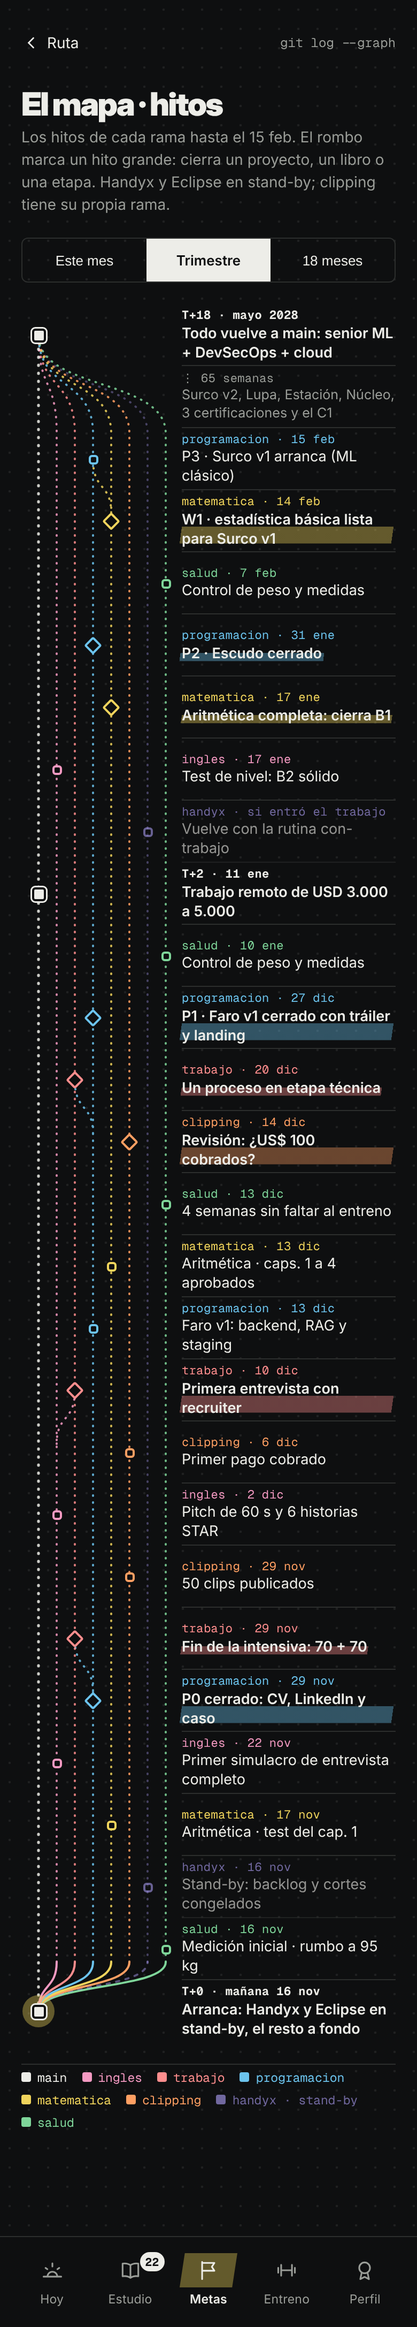
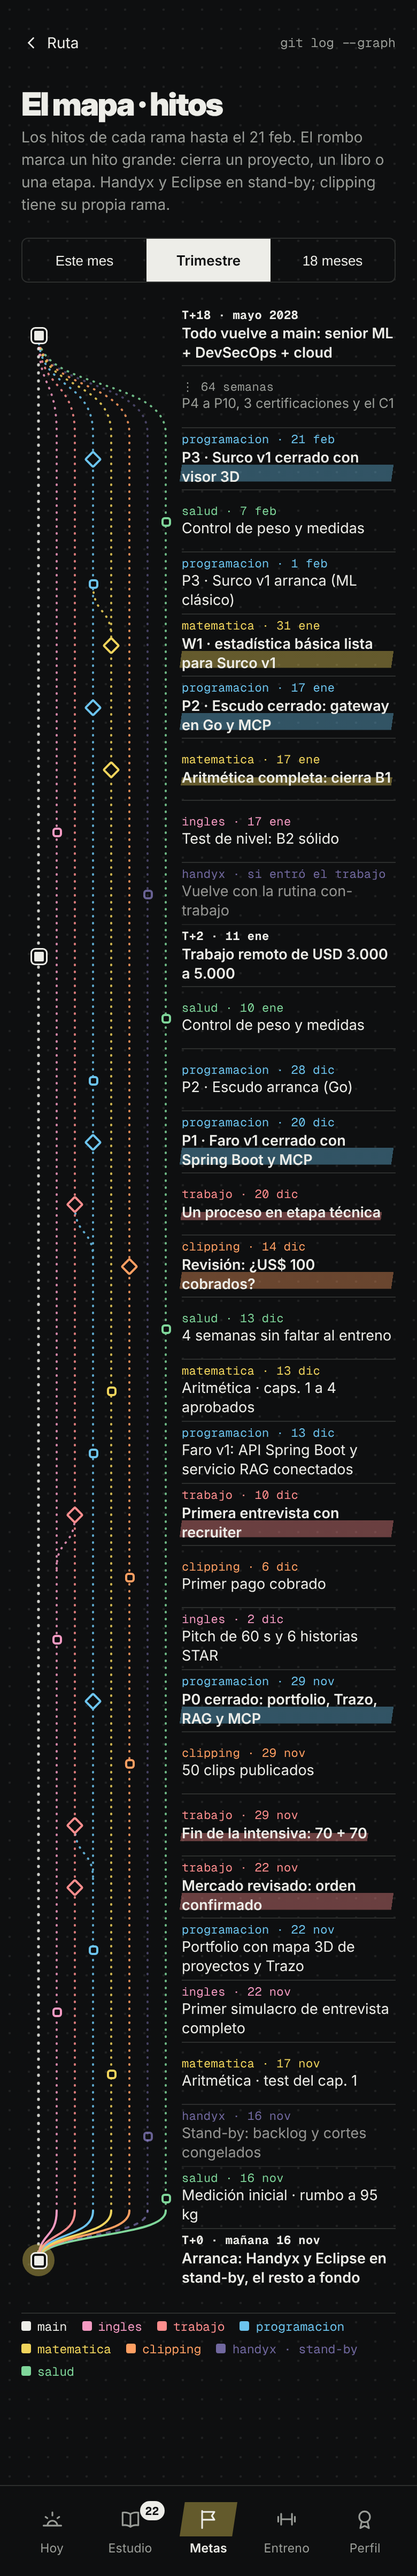
Ola 8b · 7: los 30 hitos del calendario comprimido y Trimestre de 14 semanas
- src/data/hitos.ts: los 30 hitos del 16 nov 2026 al 21 feb 2027 (mercado revisado, P0
  con portfolio, Trazo, RAG y MCP, Faro v1 con Spring Boot, Escudo en Go, Surco v1 con
  visor 3D…).
- La pestaña Trimestre del mapa cubre 14 semanas (hasta el cierre de Surco v1).
- Diseño 10.4 actualizado.

Claude-Session: https://claude.ai/code/session_01Lye2ToxL3qFNK4XMHvVaLx

diff --git a/src/data/hitos.ts b/src/data/hitos.ts
@@ -25,34 +25,38 @@ export interface HitoRama {
   desde?: Rama;
 }
 
-/** Los 26 hitos iniciales, del 16 nov 2026 al 15 feb 2027. */
+/** Los 30 hitos iniciales, del 16 nov 2026 al 21 feb 2027 (con el calendario comprimido de 5 ter). */
 export const HITOS: HitoRama[] = [
   { id: 'main-0', rama: 'main', dia: 0, texto: 'T+0 · arranca, Handyx y Eclipse en stand-by', tipo: 'main' },
   { id: 'salud-0', rama: 'salud', dia: 0, texto: 'Medición inicial · rumbo a 95 kg', tipo: 'commit' },
   { id: 'handyx-0', rama: 'handyx', dia: 0, texto: 'Stand-by: backlog y cortes congelados', tipo: 'commit' },
   { id: 'matematica-1', rama: 'matematica', dia: 1, texto: 'Aritmética · test del cap. 1', tipo: 'commit' },
   { id: 'ingles-6', rama: 'ingles', dia: 6, texto: 'Primer simulacro de entrevista completo', tipo: 'commit' },
-  { id: 'programacion-13', rama: 'programacion', dia: 13, texto: 'P0 cerrado: CV, LinkedIn y caso', tipo: 'grande' },
+  { id: 'programacion-6', rama: 'programacion', dia: 6, texto: 'Portfolio con mapa 3D de proyectos y Trazo', tipo: 'commit' },
+  { id: 'trabajo-6', rama: 'trabajo', dia: 6, texto: 'Mercado revisado: orden confirmado', tipo: 'grande' },
+  { id: 'programacion-13', rama: 'programacion', dia: 13, texto: 'P0 cerrado: portfolio, Trazo, RAG y MCP', tipo: 'grande' },
   { id: 'trabajo-13', rama: 'trabajo', dia: 13, texto: 'Fin de la intensiva: 70 + 70', tipo: 'grande', desde: 'programacion' },
   { id: 'clipping-13', rama: 'clipping', dia: 13, texto: '50 clips publicados', tipo: 'commit' },
   { id: 'ingles-16', rama: 'ingles', dia: 16, texto: 'Pitch de 60 s y 6 historias STAR', tipo: 'commit' },
   { id: 'clipping-20', rama: 'clipping', dia: 20, texto: 'Primer pago cobrado', tipo: 'commit' },
   { id: 'trabajo-24', rama: 'trabajo', dia: 24, texto: 'Primera entrevista con recruiter', tipo: 'grande', desde: 'ingles' },
-  { id: 'programacion-27', rama: 'programacion', dia: 27, texto: 'Faro v1: backend, RAG y staging', tipo: 'commit' },
   { id: 'matematica-27', rama: 'matematica', dia: 27, texto: 'Aritmética · caps. 1 a 4 aprobados', tipo: 'commit' },
+  { id: 'programacion-27', rama: 'programacion', dia: 27, texto: 'Faro v1: API Spring Boot y servicio RAG conectados', tipo: 'commit' },
   { id: 'salud-27', rama: 'salud', dia: 27, texto: '4 semanas sin faltar al entreno', tipo: 'commit' },
   { id: 'clipping-28', rama: 'clipping', dia: 28, texto: 'Revisión: ¿US$ 100 cobrados?', tipo: 'grande' },
+  { id: 'programacion-34', rama: 'programacion', dia: 34, texto: 'P1 · Faro v1 cerrado con Spring Boot y MCP', tipo: 'grande' },
   { id: 'trabajo-34', rama: 'trabajo', dia: 34, texto: 'Un proceso en etapa técnica', tipo: 'grande', desde: 'programacion' },
-  { id: 'programacion-41', rama: 'programacion', dia: 41, texto: 'P1 · Faro v1 cerrado con tráiler y landing', tipo: 'grande' },
+  { id: 'programacion-42', rama: 'programacion', dia: 42, texto: 'P2 · Escudo arranca (Go)', tipo: 'commit' },
   { id: 'salud-55', rama: 'salud', dia: 55, texto: 'Control de peso y medidas', tipo: 'commit' },
   { id: 'main-56', rama: 'main', dia: 56, texto: 'T+2 · trabajo remoto de USD 3.000 a 5.000', tipo: 'main' },
   { id: 'handyx-56', rama: 'handyx', dia: 56, texto: 'Vuelve con la rutina con-trabajo (si entró el trabajo)', tipo: 'commit' },
   { id: 'ingles-62', rama: 'ingles', dia: 62, texto: 'Test de nivel: B2 sólido', tipo: 'commit' },
   { id: 'matematica-62', rama: 'matematica', dia: 62, texto: 'Aritmética completa: cierra B1', tipo: 'grande' },
-  { id: 'programacion-76', rama: 'programacion', dia: 76, texto: 'P2 · Escudo cerrado', tipo: 'grande' },
+  { id: 'programacion-62', rama: 'programacion', dia: 62, texto: 'P2 · Escudo cerrado: gateway en Go y MCP', tipo: 'grande' },
+  { id: 'matematica-76', rama: 'matematica', dia: 76, texto: 'W1 · estadística básica lista para Surco v1', tipo: 'grande' },
+  { id: 'programacion-77', rama: 'programacion', dia: 77, texto: 'P3 · Surco v1 arranca (ML clásico)', tipo: 'commit', desde: 'matematica' },
   { id: 'salud-83', rama: 'salud', dia: 83, texto: 'Control de peso y medidas', tipo: 'commit' },
-  { id: 'matematica-90', rama: 'matematica', dia: 90, texto: 'W1 · estadística básica lista para Surco v1', tipo: 'grande' },
-  { id: 'programacion-91', rama: 'programacion', dia: 91, texto: 'P3 · Surco v1 arranca', tipo: 'commit', desde: 'matematica' },
+  { id: 'programacion-97', rama: 'programacion', dia: 97, texto: 'P3 · Surco v1 cerrado con visor 3D', tipo: 'grande' },
 ];
 
 export type EstadoHito = 'hecho' | 'vencido' | 'pendiente';

diff --git a/src/data/mapa.ts b/src/data/mapa.ts
@@ -41,11 +41,14 @@ export const COLUMNAS: RamaMapa[] = ['ingles', 'trabajo', 'programacion', 'matem
 /** Color de una columna del mapa: clipping va con el de Eclipse. */
 export const colorMapa = (r: RamaMapa | 'main') => (r === 'clipping' ? 'var(--eclipse)' : RAMA_COLOR[r]);
 
-/** El trimestre del plan que contiene una fecha: bloques de 13 semanas desde T0. */
+/** Días de la pestaña Trimestre: 14 semanas (del 16 nov al 21 feb, el cierre de Surco v1). */
+const DIAS_TRIMESTRE = 98;
+
+/** El trimestre del plan que contiene una fecha: bloques de 14 semanas desde T0. */
 export function trimestreDe(date: string, t0 = PLAN.t0) {
   const d = Math.max(0, Math.round((new Date(date + 'T12:00').getTime() - new Date(t0 + 'T12:00').getTime()) / 864e5));
-  const k = Math.floor(d / 91);
-  return { desde: addDays(t0, k * 91), hasta: addDays(t0, (k + 1) * 91) };
+  const k = Math.floor(d / DIAS_TRIMESTRE);
+  return { desde: addDays(t0, k * DIAS_TRIMESTRE), hasta: addDays(t0, (k + 1) * DIAS_TRIMESTRE - 1) };
 }
 
 /** Una fila de hito a partir de un hito fechado. */
@@ -139,7 +142,7 @@ function filasTrimestre(date: string, head: string, hitos: ReturnType<typeof hit
   // Antes de T0 HEAD queda abajo, en T+0 ("mañana").
   return [
     { id: 'hito-T+18', rama: 'main', fecha: fin, tipo: 'hito', hito: 'T+18', texto: PLAN.hitos[3].texto, futuro: true },
-    { id: 'gap-arriba', rama: 'main', fecha: hasta, tipo: 'gap', texto: `${semanas} semanas · Surco v2, Lupa, Estación, Núcleo, 3 certificaciones y el C1`, futuro: true },
+    { id: 'gap-arriba', rama: 'main', fecha: hasta, tipo: 'gap', texto: `${semanas} semanas · P4 a P10, 3 certificaciones y el C1`, futuro: true },
     ...filas,
   ];
 }

diff --git a/src/data/mapa.test.ts b/src/data/mapa.test.ts
@@ -30,18 +30,19 @@ describe('mapa en ramas', () => {
 });
 
 describe('mapa · hitos y stand-by (Ola 8b)', () => {
-  it('Trimestre: los 26 hitos iniciales, ordenados por fecha, con clipping y rombos', async () => {
+  it('Trimestre: los 30 hitos iniciales, ordenados por fecha, con clipping y rombos', async () => {
     const { HITOS } = await import('./hitos');
     const f = filasMapa('2026-11-15', 'trimestre', emptyPlan(), emptyStudy(), '2026-11-16');
     const h = f.filter((x) => x.hitoId);
-    expect(h).toHaveLength(26);
-    expect(HITOS).toHaveLength(26);
+    expect(h).toHaveLength(30);
+    expect(HITOS).toHaveLength(30);
     const fechas = h.map((x) => x.fecha);
     expect([...fechas].sort().reverse()).toEqual(fechas);
     expect(h[h.length - 1]).toMatchObject({ fecha: '2026-11-16', rama: 'main', hito: 'T+0' });
-    expect(h[0]).toMatchObject({ fecha: '2027-02-15', rama: 'programacion', desde: 'matematica' });
+    expect(h[0]).toMatchObject({ fecha: '2027-02-21', rama: 'programacion', hitoTipo: 'grande' });
+    expect(h.find((x) => x.fecha === '2027-02-01')).toMatchObject({ rama: 'programacion', desde: 'matematica' });
     expect(h.filter((x) => x.rama === 'clipping')).toHaveLength(3);
-    expect(h.filter((x) => x.hitoTipo === 'grande')).toHaveLength(9);
+    expect(h.filter((x) => x.hitoTipo === 'grande')).toHaveLength(11);
     expect(f[0].hito).toBe('T+18');
   });
 
